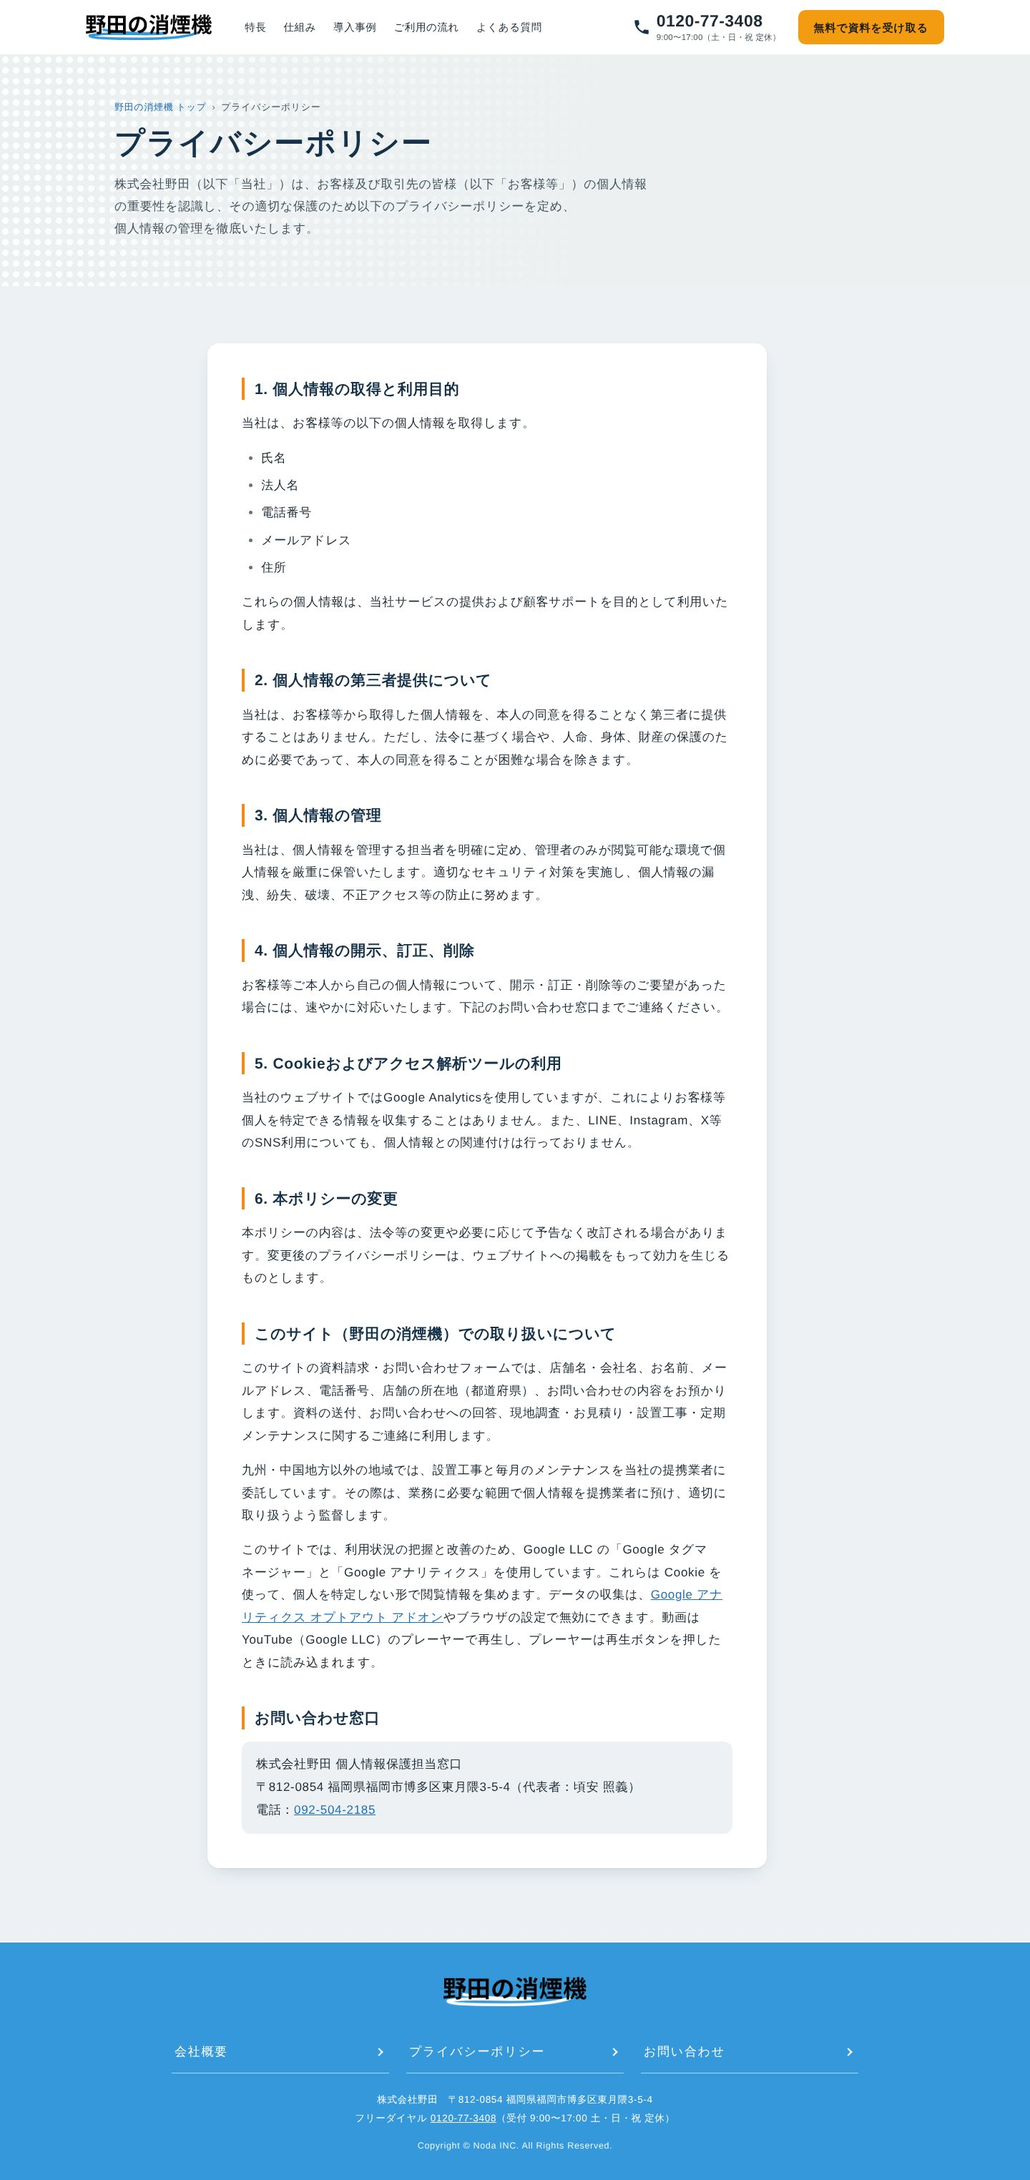
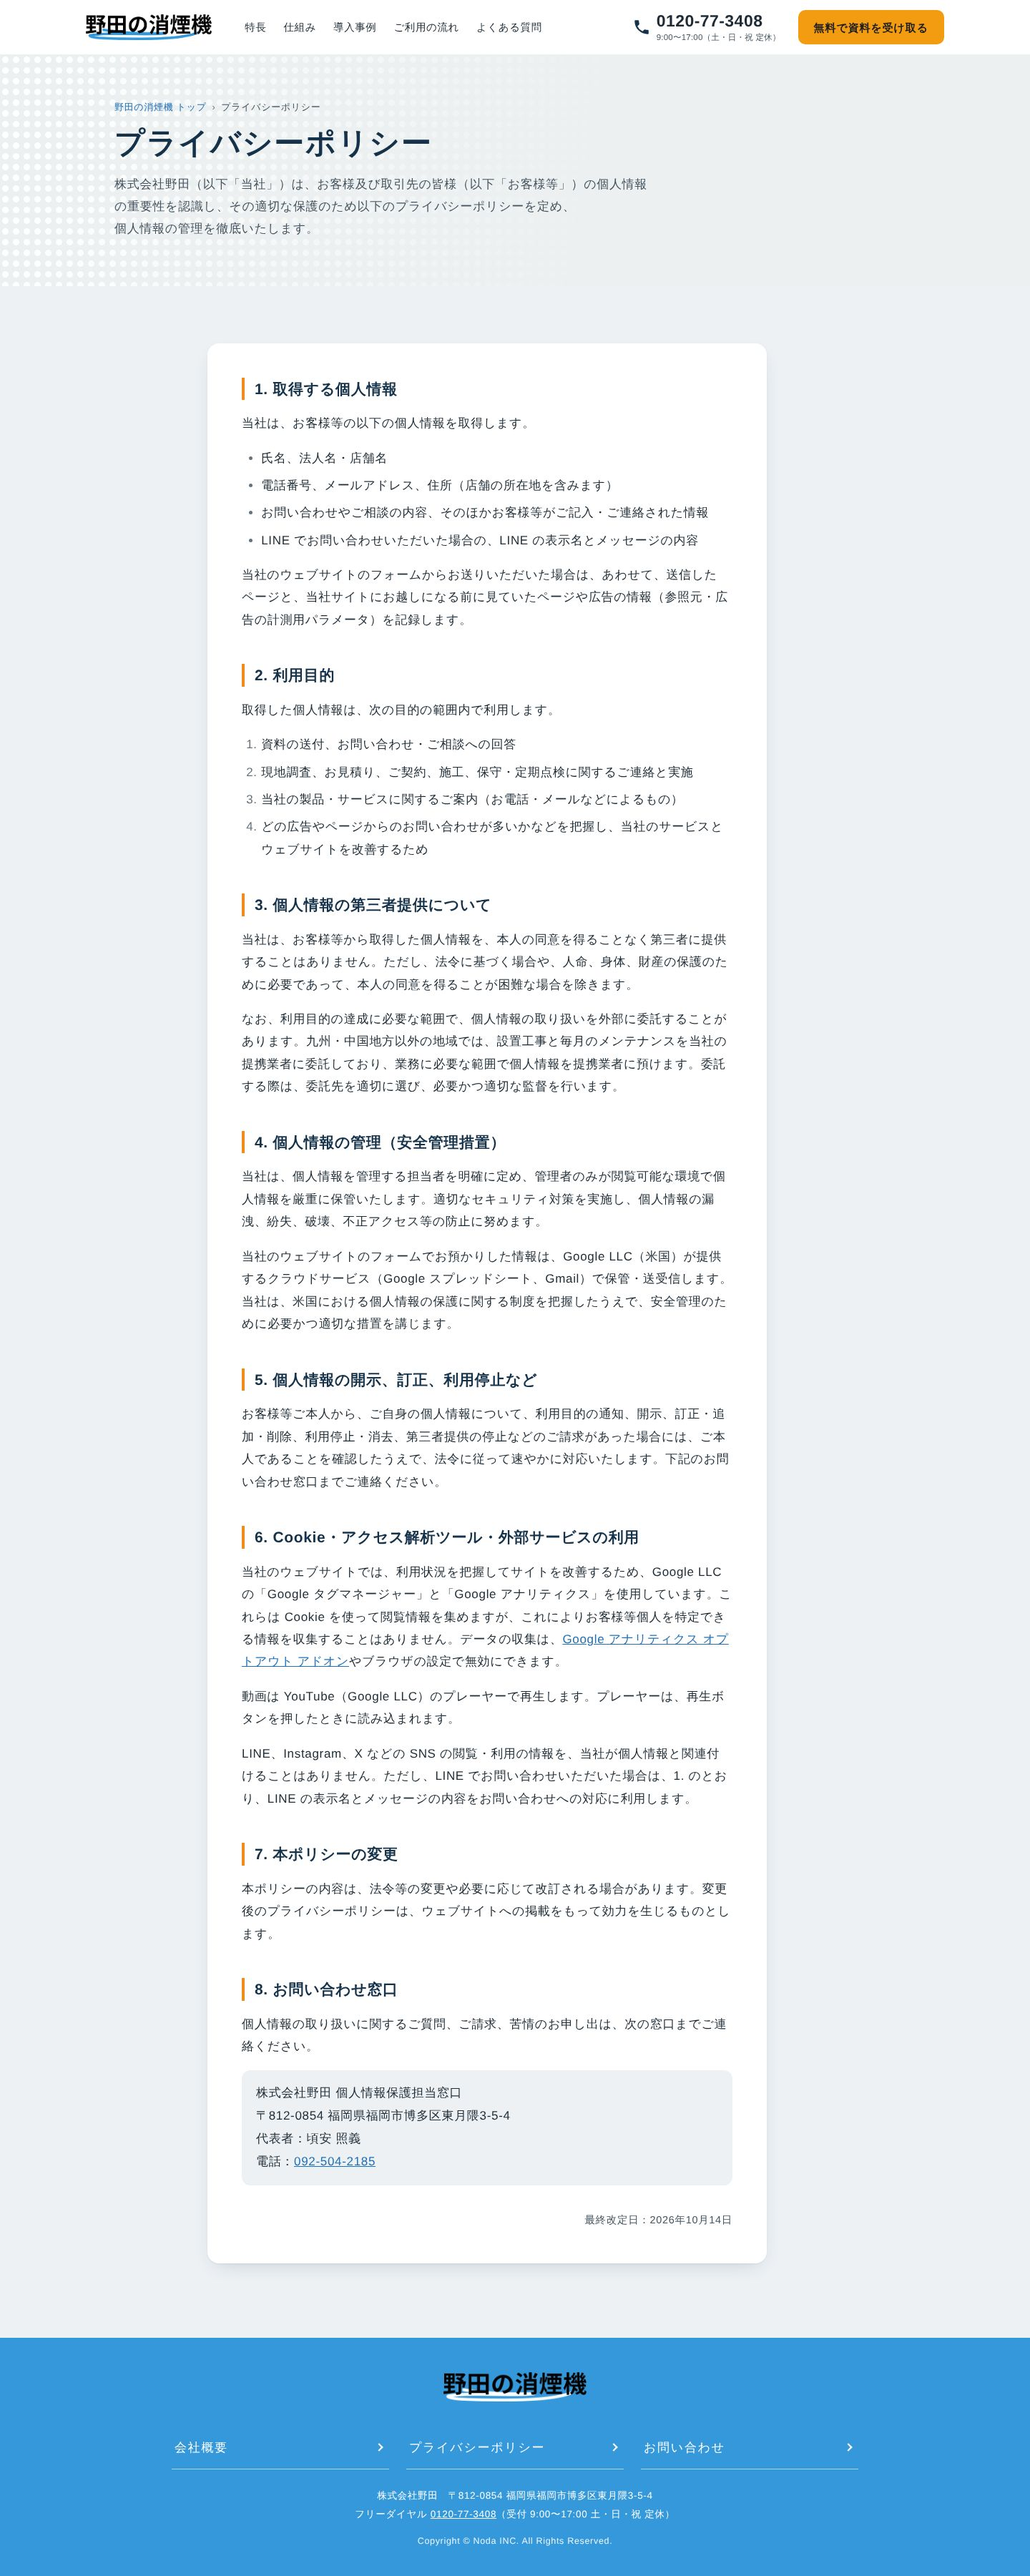
プライバシーポリシーの不足を直す
会社サイトの文面をもとに、個人情報保護法で公表が必要な項目と、
このサイトで実際に預かる情報を書き足した。
- 取得する情報に店舗名・問い合わせ内容・LINEの表示名と、フォームの参照元・広告の情報を追加
- 利用目的を具体的にし、製品・サービスのご案内を明記
- 提携業者への委託を第三者提供の項に、Google（米国）のクラウドでの保管を安全管理措置の項に記載
- 開示などの請求に、利用停止・消去・第三者提供の停止と本人確認を追加
- LINEで問い合わせた場合の扱いを明記（SNSとは関連付けないという文と食い違わないように）
- 窓口に住所・代表者名と苦情の申出先であることを記載し、最終改定日を入れた

Claude-Session: https://claude.ai/code/session_019JDn7AZMLfVuv5c9s7Xp3K

diff --git a/privacypolicy/index.html b/privacypolicy/index.html
@@ -84,39 +84,49 @@ j=d.createElement(s),dl=l!='dataLayer'?'&l='+l:'';j.async=true;j.src=
 <section class="page sec--light">
   <div class="wrap wrap--narrow">
     <div class="page__card prose">
-      <h2>1. 個人情報の取得と利用目的</h2>
+      <h2>1. 取得する個人情報</h2>
       <p>当社は、お客様等の以下の個人情報を取得します。</p>
       <ul>
-        <li>氏名</li>
-        <li>法人名</li>
-        <li>電話番号</li>
-        <li>メールアドレス</li>
-        <li>住所</li>
+        <li>氏名、法人名・店舗名</li>
+        <li>電話番号、メールアドレス、住所（店舗の所在地を含みます）</li>
+        <li>お問い合わせやご相談の内容、そのほかお客様等がご記入・ご連絡された情報</li>
+        <li>LINE でお問い合わせいただいた場合の、LINE の表示名とメッセージの内容</li>
       </ul>
-      <p>これらの個人情報は、当社サービスの提供および顧客サポートを目的として利用いたします。</p>
+      <p>当社のウェブサイトのフォームからお送りいただいた場合は、あわせて、送信したページと、当社サイトにお越しになる前に見ていたページや広告の情報（参照元・広告の計測用パラメータ）を記録します。</p>
 
-      <h2>2. 個人情報の第三者提供について</h2>
+      <h2>2. 利用目的</h2>
+      <p>取得した個人情報は、次の目的の範囲内で利用します。</p>
+      <ol>
+        <li>資料の送付、お問い合わせ・ご相談への回答</li>
+        <li>現地調査、お見積り、ご契約、施工、保守・定期点検に関するご連絡と実施</li>
+        <li>当社の製品・サービスに関するご案内（お電話・メールなどによるもの）</li>
+        <li>どの広告やページからのお問い合わせが多いかなどを把握し、当社のサービスとウェブサイトを改善するため</li>
+      </ol>
+
+      <h2>3. 個人情報の第三者提供について</h2>
       <p>当社は、お客様等から取得した個人情報を、本人の同意を得ることなく第三者に提供することはありません。ただし、法令に基づく場合や、人命、身体、財産の保護のために必要であって、本人の同意を得ることが困難な場合を除きます。</p>
+      <p>なお、利用目的の達成に必要な範囲で、個人情報の取り扱いを外部に委託することがあります。九州・中国地方以外の地域では、設置工事と毎月のメンテナンスを当社の提携業者に委託しており、業務に必要な範囲で個人情報を提携業者に預けます。委託する際は、委託先を適切に選び、必要かつ適切な監督を行います。</p>
 
-      <h2>3. 個人情報の管理</h2>
+      <h2>4. 個人情報の管理（安全管理措置）</h2>
       <p>当社は、個人情報を管理する担当者を明確に定め、管理者のみが閲覧可能な環境で個人情報を厳重に保管いたします。適切なセキュリティ対策を実施し、個人情報の漏洩、紛失、破壊、不正アクセス等の防止に努めます。</p>
+      <p>当社のウェブサイトのフォームでお預かりした情報は、Google LLC（米国）が提供するクラウドサービス（Google スプレッドシート、Gmail）で保管・送受信します。当社は、米国における個人情報の保護に関する制度を把握したうえで、安全管理のために必要かつ適切な措置を講じます。</p>
 
-      <h2>4. 個人情報の開示、訂正、削除</h2>
-      <p>お客様等ご本人から自己の個人情報について、開示・訂正・削除等のご要望があった場合には、速やかに対応いたします。下記のお問い合わせ窓口までご連絡ください。</p>
+      <h2>5. 個人情報の開示、訂正、利用停止など</h2>
+      <p>お客様等ご本人から、ご自身の個人情報について、利用目的の通知、開示、訂正・追加・削除、利用停止・消去、第三者提供の停止などのご請求があった場合には、ご本人であることを確認したうえで、法令に従って速やかに対応いたします。下記のお問い合わせ窓口までご連絡ください。</p>
 
-      <h2>5. Cookieおよびアクセス解析ツールの利用</h2>
-      <p>当社のウェブサイトではGoogle Analyticsを使用していますが、これによりお客様等個人を特定できる情報を収集することはありません。また、LINE、Instagram、X等のSNS利用についても、個人情報との関連付けは行っておりません。</p>
+      <h2>6. Cookie・アクセス解析ツール・外部サービスの利用</h2>
+      <p>当社のウェブサイトでは、利用状況を把握してサイトを改善するため、Google LLC の「Google タグマネージャー」と「Google アナリティクス」を使用しています。これらは Cookie を使って閲覧情報を集めますが、これによりお客様等個人を特定できる情報を収集することはありません。データの収集は、<a href="https://tools.google.com/dlpage/gaoptout?hl=ja" target="_blank" rel="noopener">Google アナリティクス オプトアウト アドオン</a>やブラウザの設定で無効にできます。</p>
+      <p>動画は YouTube（Google LLC）のプレーヤーで再生します。プレーヤーは、再生ボタンを押したときに読み込まれます。</p>
+      <p>LINE、Instagram、X などの SNS の閲覧・利用の情報を、当社が個人情報と関連付けることはありません。ただし、LINE でお問い合わせいただいた場合は、1. のとおり、LINE の表示名とメッセージの内容をお問い合わせへの対応に利用します。</p>
 
-      <h2>6. 本ポリシーの変更</h2>
-      <p>本ポリシーの内容は、法令等の変更や必要に応じて予告なく改訂される場合があります。変更後のプライバシーポリシーは、ウェブサイトへの掲載をもって効力を生じるものとします。</p>
+      <h2>7. 本ポリシーの変更</h2>
+      <p>本ポリシーの内容は、法令等の変更や必要に応じて改訂される場合があります。変更後のプライバシーポリシーは、ウェブサイトへの掲載をもって効力を生じるものとします。</p>
 
-      <h2>このサイト（野田の消煙機）での取り扱いについて</h2>
-      <p>このサイトの資料請求・お問い合わせフォームでは、店舗名・会社名、お名前、メールアドレス、電話番号、店舗の所在地（都道府県）、お問い合わせの内容をお預かりします。資料の送付、お問い合わせへの回答、現地調査・お見積り・設置工事・定期メンテナンスに関するご連絡に利用します。</p>
-      <p>九州・中国地方以外の地域では、設置工事と毎月のメンテナンスを当社の提携業者に委託しています。その際は、業務に必要な範囲で個人情報を提携業者に預け、適切に取り扱うよう監督します。</p>
-      <p>このサイトでは、利用状況の把握と改善のため、Google LLC の「Google タグマネージャー」と「Google アナリティクス」を使用しています。これらは Cookie を使って、個人を特定しない形で閲覧情報を集めます。データの収集は、<a href="https://tools.google.com/dlpage/gaoptout?hl=ja" target="_blank" rel="noopener">Google アナリティクス オプトアウト アドオン</a>やブラウザの設定で無効にできます。動画は YouTube（Google LLC）のプレーヤーで再生し、プレーヤーは再生ボタンを押したときに読み込まれます。</p>
+      <h2>8. お問い合わせ窓口</h2>
+      <p>個人情報の取り扱いに関するご質問、ご請求、苦情のお申し出は、次の窓口までご連絡ください。</p>
+      <address>株式会社野田 個人情報保護担当窓口<br>〒812-0854 福岡県福岡市博多区東月隈3-5-4<br>代表者：頃安 照義<br>電話：<a href="tel:0925042185">092-504-2185</a></address>
 
-      <h2>お問い合わせ窓口</h2>
-      <address>株式会社野田 個人情報保護担当窓口<br>〒812-0854 福岡県福岡市博多区東月隈3-5-4（代表者：頃安 照義）<br>電話：<a href="tel:0925042185">092-504-2185</a></address>
+      <p class="prose__date">最終改定日：2026年10月14日</p>
     </div>
   </div>
 </section>

diff --git a/README.md b/README.md
@@ -73,12 +73,12 @@ npx serve .
 | ページ | 内容 |
 |---|---|
 | `company/` | 会社情報（商号、代表者、設立、本社所在地、広島出張所、電話・FAX・フリーダイヤル、メール、事業内容、対応エリア、ウェブサイト）。会社サイトの会社概要に合わせています |
-| `privacypolicy/` | 会社サイトのプライバシーポリシー（1〜6とお問い合わせ窓口）をそのまま載せ、「このサイト（野田の消煙機）での取り扱いについて」としてフォーム・提携業者への委託・計測タグの説明を足しています |
+| `privacypolicy/` | 会社サイトのプライバシーポリシーをもとに、個人情報保護法で公表が必要な項目（具体的な利用目的、安全管理措置と外国のクラウドの利用、開示・利用停止などの請求、事業者の住所・代表者）と、このサイトで実際に預かる情報（フォームの参照元・広告の情報、LINE の表示名）を書き足したもの |
 | `contact/` | お問い合わせフォーム（種類・店名・都道府県・お名前・メール・電話・内容）と、電話・LINEの案内。フォームの先頭と送信後の表示、受付確認メールで「このフォームでは資料は届かない。資料は資料請求フォームから」と案内 |
 
 - 会社情報は会社サイト（duct-noda.com/company/、2026年10月14日に確認）の会社概要に合わせました。事業内容には、このサイトで扱う消煙機の販売・設置・メンテナンスを足しています。会社サイトには資本金・許可番号の記載はありません。
 - 会社サイトの見出しまわりには、広島出張所の古い住所（佐伯区）がまだ残っています。会社概要の表は安佐南区です。
-- プライバシーポリシーのお問い合わせ窓口には、2022年の法改正で公表が必要になった住所と代表者名を書き添えています。
+- 会社サイトのプライバシーポリシーには、上の項目が足りていません。会社サイトも同じ文面にそろえることをおすすめします。
 - ヘッダーとフッターは4ページそれぞれに書いています。電話番号などを変えるときは、4ファイルとも直してください。
 
 ## 表示速度
